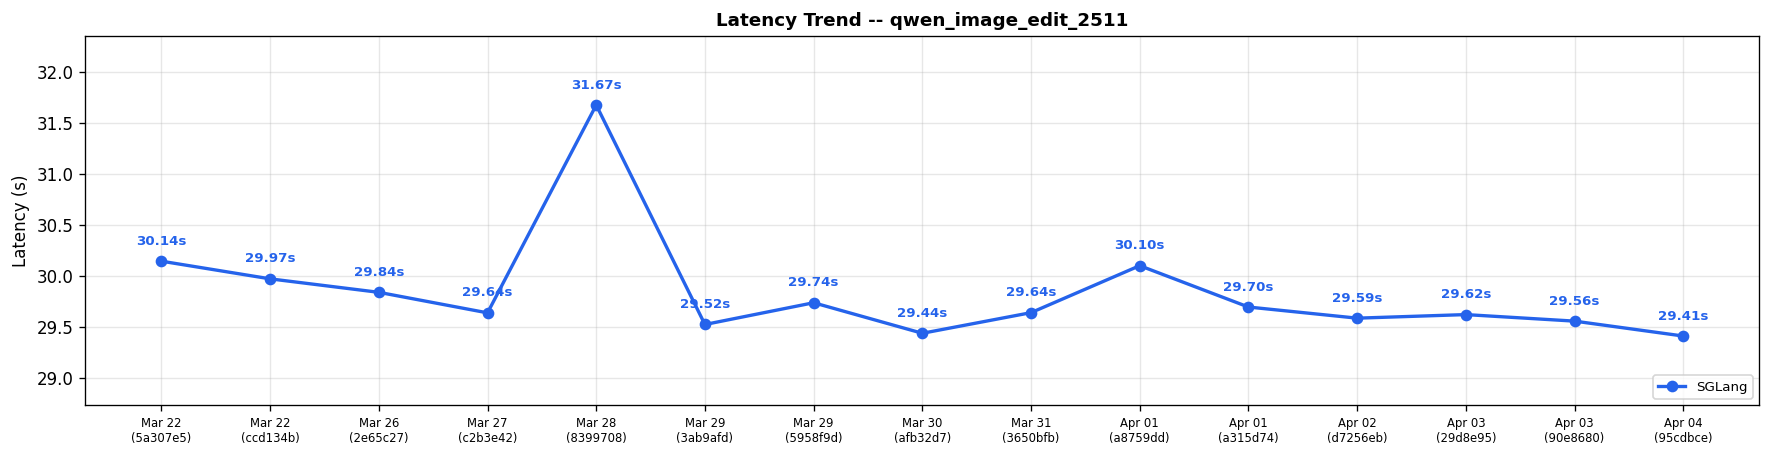
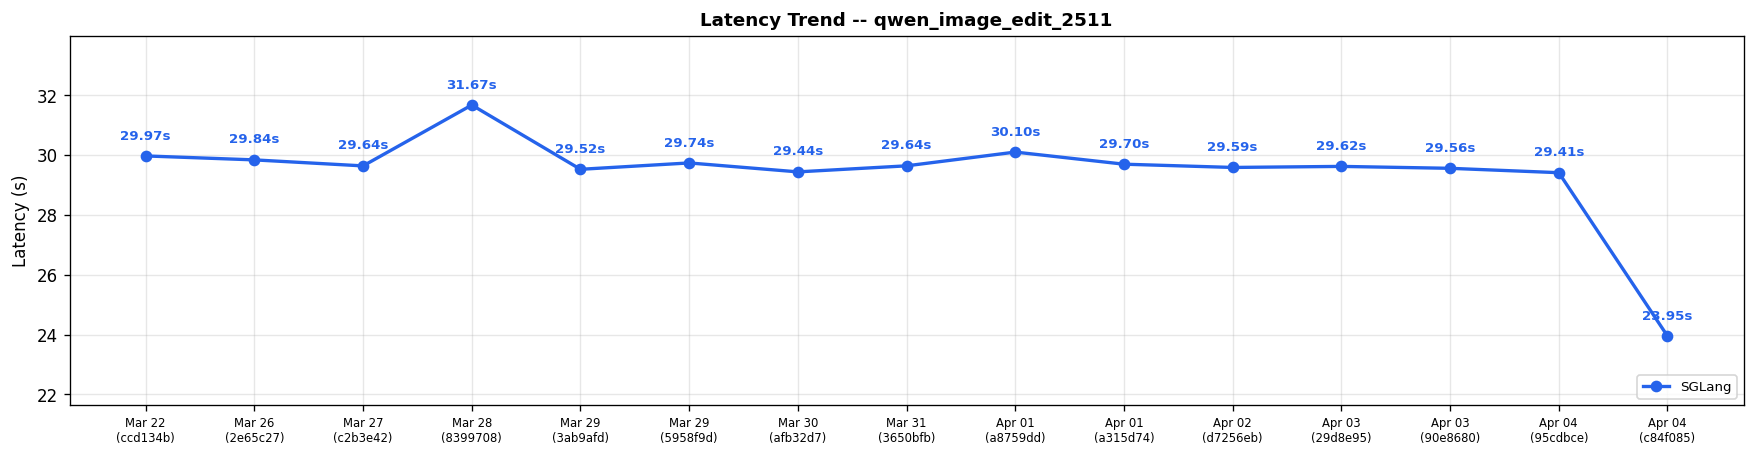
Diffusion comparison results for run 23972807453 (#554)

diff --git a/diffusion-comparisons/dashboard.md b/diffusion-comparisons/dashboard.md
@@ -1,39 +1,47 @@
 # Diffusion Cross-Framework Performance Dashboard
 
-*Generated: Apr 04 | Commit: `95cdbce`*
+*Generated: Apr 04 | Commit: `c84f085`*
+
+> [!WARNING]
+> **Performance Regression Detected**
+>
+> - **wan22_t2v_a14b_720p** (sglang): 16.14s -> 210.88s (+1207.0%)
+> - **wan22_i2v_a14b_720p** (sglang): 21.07s -> 206.55s (+880.4%)
+
 
 ## Cross-Framework Performance Comparison
 
 | Model | Risk | sglang (s) |
 |-------|------|---------|
-| FLUX.1-dev | ✅ | **6.68** |
-| FLUX.2-dev | ✅ | **22.80** |
-| Qwen-Image-2512 | ✅ | **13.51** |
-| Qwen-Image-Edit-2511 | ✅ | **29.41** |
+| FLUX.1-dev | ✅ | **6.86** |
+| FLUX.2-dev | ✅ | **22.87** |
+| Qwen-Image-2512 | ✅ | **13.16** |
+| Qwen-Image-Edit-2511 | ✅ | **23.95** |
 | Z-Image-Turbo | ✅ | **0.93** |
-| Wan2.2-T2V-A14B-Diffusers | ✅ | **16.14** |
-| Wan2.2-TI2V-5B-Diffusers | ✅ | **63.19** |
-| Wan2.2-I2V-A14B-Diffusers | ✅ | **21.07** |
+| Wan2.2-T2V-A14B-Diffusers | ⚠ | **210.88** |
+| Wan2.2-TI2V-5B-Diffusers | ✅ | **62.21** |
+| LTX-2 | ✅ | **14.89** |
+| Wan2.2-I2V-A14B-Diffusers | ⚠ | **206.55** |
 
 ## SGLang Performance Trend (Last 15 Runs)
 
-| Date | Commit | flux1_dev_t2i_1024 (s) | flux2_dev_t2i_1024 (s) | qwen_image_2512_t2i_1024 (s) | qwen_image_edit_2511 (s) | zimage_turbo_t2i_1024 (s) | wan22_t2v_a14b_720p (s) | wan22_ti2v_5b_720p (s) | wan22_i2v_a14b_720p (s) | Trend |
-|------|--------|---------|---------|---------|---------|---------|---------|---------|---------|-------|
-| Apr 04 | `95cdbce` | 6.68 | 22.80 | 13.51 | 29.41 | 0.93 | 16.14 | 63.19 | 21.07 | :left_right_arrow:  :left_right_arrow:  :left_right_arrow:  :left_right_arrow:  :left_right_arrow:  :left_right_arrow:  :left_right_arrow:  :left_right_arrow: |
-| Apr 03 | `90e8680` | 6.72 | 22.89 | 13.57 | 29.56 | 0.93 | 16.09 | 62.17 | 21.06 | :left_right_arrow:  :left_right_arrow:  :left_right_arrow:  :left_right_arrow:  :left_right_arrow:  :arrow_down:  :left_right_arrow:  :left_right_arrow: |
-| Apr 03 | `29d8e95` | 6.69 | 22.88 | 13.55 | 29.62 | 0.93 | 16.57 | 62.18 | 21.07 | :left_right_arrow:  :left_right_arrow:  :arrow_up:  :left_right_arrow:  :left_right_arrow:  :arrow_up:  :left_right_arrow:  :arrow_down: |
-| Apr 02 | `d7256eb` | 6.70 | 22.87 | 13.18 | 29.59 | 0.93 | 16.11 | 62.20 | 22.07 | :left_right_arrow:  :left_right_arrow:  :left_right_arrow:  :left_right_arrow:  :left_right_arrow:  :left_right_arrow:  :left_right_arrow:  :left_right_arrow: |
-| Apr 01 | `a315d74` | 6.70 | 22.89 | 13.30 | 29.70 | 0.92 | 16.20 | 62.19 | 22.08 | :left_right_arrow:  :left_right_arrow:  :left_right_arrow:  :left_right_arrow:  :left_right_arrow:  :left_right_arrow:  :left_right_arrow:  :arrow_up: |
-| Apr 01 | `a8759dd` | 6.70 | 22.88 | 13.19 | 30.10 | 0.93 | 16.16 | 62.20 | 21.07 | :left_right_arrow:  :left_right_arrow:  :left_right_arrow:  :left_right_arrow:  :left_right_arrow:  :left_right_arrow:  :left_right_arrow:  :arrow_up: |
-| Mar 31 | `3650bfb` | 6.69 | 22.84 | 13.19 | 29.64 | 0.93 | 16.10 | 63.18 | 9.03 | :left_right_arrow:  :left_right_arrow:  :left_right_arrow:  :left_right_arrow:  :left_right_arrow:  :left_right_arrow:  :left_right_arrow:  :arrow_down: |
-| Mar 30 | `afb32d7` | 6.68 | 22.79 | 13.16 | 29.44 | 0.92 | 16.08 | 62.21 | 10.04 | :left_right_arrow:  :left_right_arrow:  :left_right_arrow:  :left_right_arrow:  :left_right_arrow:  :left_right_arrow:  :left_right_arrow:  :left_right_arrow: |
-| Mar 29 | `5958f9d` | 6.70 | 22.86 | 13.19 | 29.74 | 0.93 | 16.31 | 62.18 | 10.04 | :left_right_arrow:  :left_right_arrow:  :left_right_arrow:  :left_right_arrow:  :left_right_arrow:  :left_right_arrow:  :left_right_arrow:  :arrow_up: |
-| Mar 29 | `3ab9afd` | 6.70 | 22.90 | 13.19 | 29.52 | 0.93 | 16.17 | 62.17 | 9.04 | :left_right_arrow:  :left_right_arrow:  :arrow_down:  :arrow_down:  :left_right_arrow:  :left_right_arrow:  :left_right_arrow:  :arrow_down: |
-| Mar 28 | `8399708` | 6.68 | 22.76 | 13.71 | 31.67 | 0.93 | 16.27 | 62.22 | 10.04 | :left_right_arrow:  :left_right_arrow:  :arrow_up:  :arrow_up:  :left_right_arrow:  :left_right_arrow:  :left_right_arrow:  :left_right_arrow: |
-| Mar 27 | `c2b3e42` | 6.70 | 22.94 | 13.18 | 29.64 | 0.93 | 16.11 | 62.21 | 10.04 | :left_right_arrow:  :left_right_arrow:  :left_right_arrow:  :left_right_arrow:  :left_right_arrow:  :left_right_arrow:  :left_right_arrow:  :left_right_arrow: |
-| Mar 26 | `2e65c27` | 6.77 | 22.75 | 13.31 | 29.84 | 0.94 | 16.06 | 62.23 | 10.04 | :left_right_arrow:  :left_right_arrow:  :arrow_down:  :left_right_arrow:  :arrow_down:  :left_right_arrow:  :left_right_arrow:  :left_right_arrow: |
-| Mar 22 | `ccd134b` | 6.69 | 22.58 | 13.58 | 29.97 | 1.96 | 16.10 | 62.17 | 10.04 | :left_right_arrow:  :left_right_arrow:  :arrow_down:  :left_right_arrow:  :arrow_down:  :left_right_arrow:  :left_right_arrow:  :left_right_arrow: |
-| Mar 22 | `5a307e5` | 6.70 | 22.62 | 14.09 | 30.14 | 2.01 | 16.13 | 62.20 | 10.04 | -- |
+| Date | Commit | flux1_dev_t2i_1024 (s) | flux2_dev_t2i_1024 (s) | qwen_image_2512_t2i_1024 (s) | qwen_image_edit_2511 (s) | zimage_turbo_t2i_1024 (s) | wan22_t2v_a14b_720p (s) | wan22_ti2v_5b_720p (s) | ltx2_twostage_t2v (s) | wan22_i2v_a14b_720p (s) | Trend |
+|------|--------|---------|---------|---------|---------|---------|---------|---------|---------|---------|-------|
+| Apr 04 | `c84f085` | 6.86 | 22.87 | 13.16 | 23.95 | 0.93 | 210.88 | 62.21 | 14.89 | 206.55 | :arrow_up:  :left_right_arrow:  :arrow_down:  :arrow_down:  :left_right_arrow:  :arrow_up:  :left_right_arrow:   :arrow_up: |
+| Apr 04 | `95cdbce` | 6.68 | 22.80 | 13.51 | 29.41 | 0.93 | 16.14 | 63.19 | N/A | 21.07 | :left_right_arrow:  :left_right_arrow:  :left_right_arrow:  :left_right_arrow:  :left_right_arrow:  :left_right_arrow:  :left_right_arrow:   :left_right_arrow: |
+| Apr 03 | `90e8680` | 6.72 | 22.89 | 13.57 | 29.56 | 0.93 | 16.09 | 62.17 | N/A | 21.06 | :left_right_arrow:  :left_right_arrow:  :left_right_arrow:  :left_right_arrow:  :left_right_arrow:  :arrow_down:  :left_right_arrow:   :left_right_arrow: |
+| Apr 03 | `29d8e95` | 6.69 | 22.88 | 13.55 | 29.62 | 0.93 | 16.57 | 62.18 | N/A | 21.07 | :left_right_arrow:  :left_right_arrow:  :arrow_up:  :left_right_arrow:  :left_right_arrow:  :arrow_up:  :left_right_arrow:   :arrow_down: |
+| Apr 02 | `d7256eb` | 6.70 | 22.87 | 13.18 | 29.59 | 0.93 | 16.11 | 62.20 | N/A | 22.07 | :left_right_arrow:  :left_right_arrow:  :left_right_arrow:  :left_right_arrow:  :left_right_arrow:  :left_right_arrow:  :left_right_arrow:   :left_right_arrow: |
+| Apr 01 | `a315d74` | 6.70 | 22.89 | 13.30 | 29.70 | 0.92 | 16.20 | 62.19 | N/A | 22.08 | :left_right_arrow:  :left_right_arrow:  :left_right_arrow:  :left_right_arrow:  :left_right_arrow:  :left_right_arrow:  :left_right_arrow:   :arrow_up: |
+| Apr 01 | `a8759dd` | 6.70 | 22.88 | 13.19 | 30.10 | 0.93 | 16.16 | 62.20 | N/A | 21.07 | :left_right_arrow:  :left_right_arrow:  :left_right_arrow:  :left_right_arrow:  :left_right_arrow:  :left_right_arrow:  :left_right_arrow:   :arrow_up: |
+| Mar 31 | `3650bfb` | 6.69 | 22.84 | 13.19 | 29.64 | 0.93 | 16.10 | 63.18 | N/A | 9.03 | :left_right_arrow:  :left_right_arrow:  :left_right_arrow:  :left_right_arrow:  :left_right_arrow:  :left_right_arrow:  :left_right_arrow:   :arrow_down: |
+| Mar 30 | `afb32d7` | 6.68 | 22.79 | 13.16 | 29.44 | 0.92 | 16.08 | 62.21 | N/A | 10.04 | :left_right_arrow:  :left_right_arrow:  :left_right_arrow:  :left_right_arrow:  :left_right_arrow:  :left_right_arrow:  :left_right_arrow:   :left_right_arrow: |
+| Mar 29 | `5958f9d` | 6.70 | 22.86 | 13.19 | 29.74 | 0.93 | 16.31 | 62.18 | N/A | 10.04 | :left_right_arrow:  :left_right_arrow:  :left_right_arrow:  :left_right_arrow:  :left_right_arrow:  :left_right_arrow:  :left_right_arrow:   :arrow_up: |
+| Mar 29 | `3ab9afd` | 6.70 | 22.90 | 13.19 | 29.52 | 0.93 | 16.17 | 62.17 | N/A | 9.04 | :left_right_arrow:  :left_right_arrow:  :arrow_down:  :arrow_down:  :left_right_arrow:  :left_right_arrow:  :left_right_arrow:   :arrow_down: |
+| Mar 28 | `8399708` | 6.68 | 22.76 | 13.71 | 31.67 | 0.93 | 16.27 | 62.22 | N/A | 10.04 | :left_right_arrow:  :left_right_arrow:  :arrow_up:  :arrow_up:  :left_right_arrow:  :left_right_arrow:  :left_right_arrow:   :left_right_arrow: |
+| Mar 27 | `c2b3e42` | 6.70 | 22.94 | 13.18 | 29.64 | 0.93 | 16.11 | 62.21 | N/A | 10.04 | :left_right_arrow:  :left_right_arrow:  :left_right_arrow:  :left_right_arrow:  :left_right_arrow:  :left_right_arrow:  :left_right_arrow:   :left_right_arrow: |
+| Mar 26 | `2e65c27` | 6.77 | 22.75 | 13.31 | 29.84 | 0.94 | 16.06 | 62.23 | N/A | 10.04 | :left_right_arrow:  :left_right_arrow:  :arrow_down:  :left_right_arrow:  :arrow_down:  :left_right_arrow:  :left_right_arrow:   :left_right_arrow: |
+| Mar 22 | `ccd134b` | 6.69 | 22.58 | 13.58 | 29.97 | 1.96 | 16.10 | 62.17 | N/A | 10.04 | -- |
 
 ### Latency Trend: flux1_dev_t2i_1024
 
@@ -70,9 +78,24 @@
 ![Latency Trend wan22_ti2v_5b_720p](https://raw.githubusercontent.com/sglang-bot/sglang-ci-data/main/diffusion-comparisons/charts/latency_wan22_ti2v_5b_720p.png)
 
 
+### Latency Trend: ltx2_twostage_t2v
+
+![Latency Trend ltx2_twostage_t2v](https://raw.githubusercontent.com/sglang-bot/sglang-ci-data/main/diffusion-comparisons/charts/latency_ltx2_twostage_t2v.png)
+
+
 ### Latency Trend: wan22_i2v_a14b_720p
 
 ![Latency Trend wan22_i2v_a14b_720p](https://raw.githubusercontent.com/sglang-bot/sglang-ci-data/main/diffusion-comparisons/charts/latency_wan22_i2v_a14b_720p.png)
+
+
+> [!CAUTION]
+> **Action Required — Performance Alert**
+>
+> The following cases need attention:
+> - wan22_t2v_a14b_720p: SGLang regression +1196.3% vs 3-run avg (210.88s vs 16.27s)
+> - wan22_i2v_a14b_720p: SGLang regression +880.5% vs 3-run avg (206.55s vs 21.07s)
+>
+> cc @mickqian @bbuf @yhyang201
 
 
 ---
